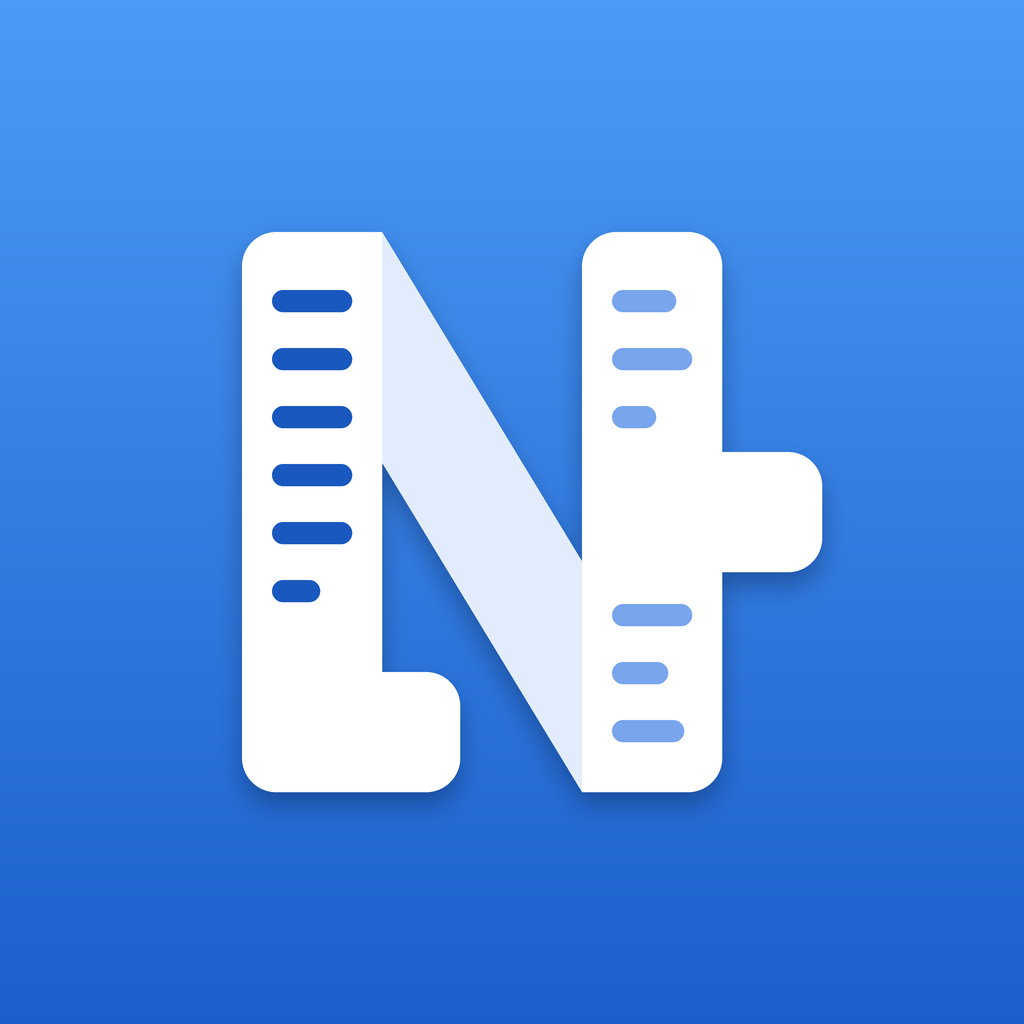
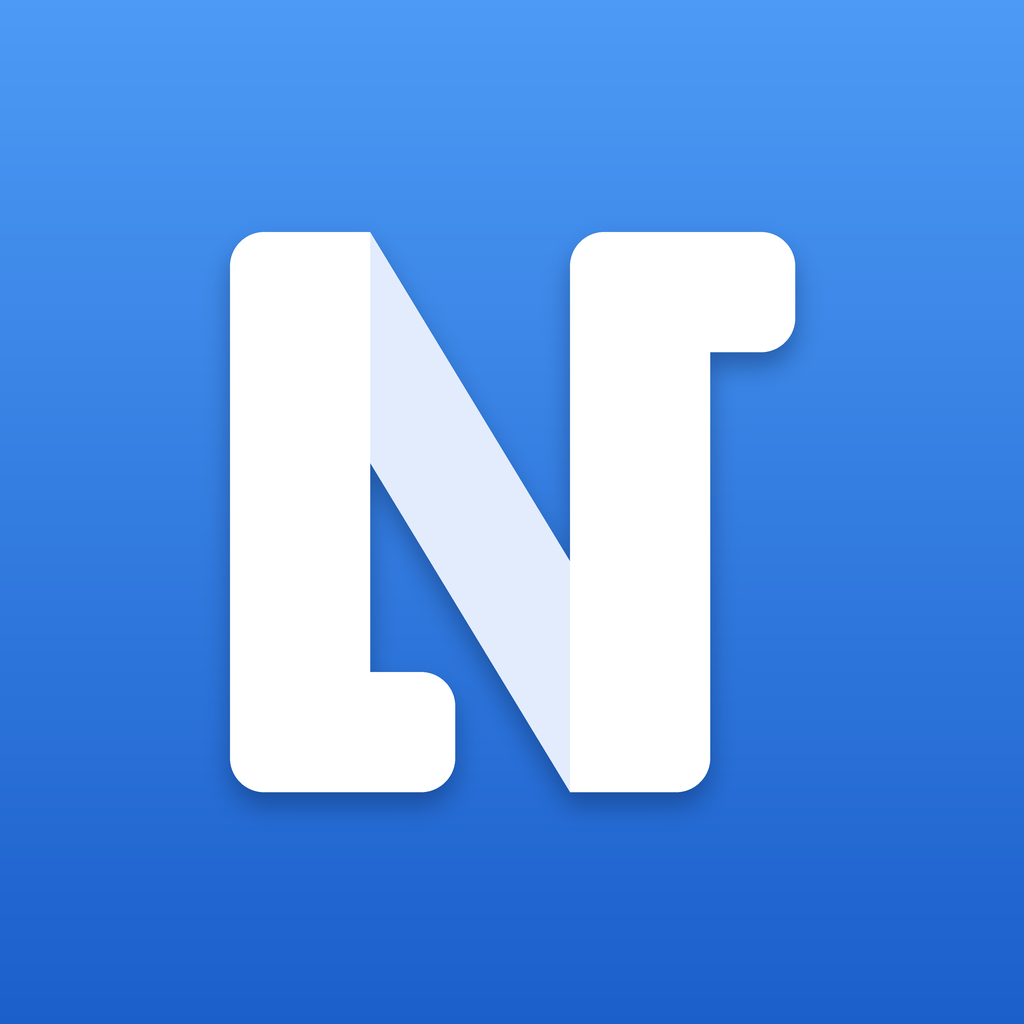
앱 아이콘 단순화 — 글줄을 빼고 ㅏ 가로획을 맨 위로, 받침과 길이를 같게
글줄이 작은 크기에서 잔무늬로 뭉개지고 큰 크기에서도 어수선했다. 흰 N+ㄴ·ㅏ 윤곽과 사선 띠만 남기고, ㅏ 가로획을 맨 위로 올려 ㄴ 받침과 대각으로 맞서게 했다(받침·가로획은 막대 밖으로 같은 길이). 전체를 가운데로 다시 맞췄다.

diff --git a/tools/make_icon.py b/tools/make_icon.py
@@ -8,10 +8,11 @@
 
     uv run python tools/make_icon.py
 
-디자인: 파란 라운드 사각형 위 흰 'N' — 두 세로 페이지(원문·번역)를 사선 띠가 잇는다. 두 다리는
-그대로 'ㄴ'과 'ㅏ'의 세로획이라 '나(란히)'로도 읽힌다. 왼쪽 페이지 글줄은 고르고 진하게(원문),
-오른쪽은 들쭉날쭉하고 밝게(번역). 글꼴 없이 도형만 쓰므로 어느 컴퓨터에서나 같은 결과가 나온다.
-16px에서는 글줄이 사라지고 N+ㅏ 윤곽만 남는다.
+디자인: 파란 라운드 사각형 위에 흰 세로 막대 둘(원문·번역 두 페이지)이 나란히 서고, 옅은 사선
+띠가 둘을 이어 'N'이 된다. 왼쪽 아래 받침과 오른쪽 위 가로획(같은 길이)을 더해 'ㄴ'·'ㅏ' —
+'나(란히)'로도 읽힌다. 받침과 가로획이 대각으로 맞서 사선과 균형을 이룬다. 글줄 같은 잔 요소는
+두지 않아 16px에서도 윤곽이 그대로 남는다. 글꼴 없이 도형만 쓰므로 어느 컴퓨터에서나 같은 결과가
+나온다.
 """
 
 from __future__ import annotations
@@ -28,20 +29,16 @@ ASSETS = Path(__file__).resolve().parents[1] / "src" / "narani" / "ui" / "assets
 
 TOP = (76, 154, 245)  # 배경 그라데이션 위 (#4C9AF5)
 BOTTOM = (27, 95, 203)  # 배경 그라데이션 아래 (#1B5FCB)
-PAPER = (255, 255, 255, 255)
-BAND = (226, 236, 252, 255)  # 두 페이지를 잇는 사선 띠 — 종이보다 살짝 어둡게
-INK = (25, 88, 190, 255)  # 원문 글줄
-INK_LIGHT = (120, 165, 235, 255)  # 번역 글줄
+PAPER = (255, 255, 255, 255)  # 두 페이지와 받침·가로획
+LINK = (226, 236, 252, 255)  # 잇는 사선 띠 — 종이보다 살짝 어둡게
 
-# 1024 격자 좌표. 'ㅏ' 곁가지가 오른쪽으로 뻗으므로 N 몸통을 가운데보다 조금 왼쪽에 둔다.
-LEFT = (242, 232, 382, 792)  # 왼쪽 페이지 = ㄴ의 세로획
-RIGHT = (582, 232, 722, 792)  # 오른쪽 페이지 = ㅏ의 세로획
-FOOT = (242, 672, 460, 792)  # ㄴ 받침 (사선 띠에 닿지 않게 짧게)
-BRANCH = (582, 452, 822, 572)  # ㅏ 곁가지
+# 1024 격자 좌표. 가로획이 오른쪽으로 뻗으므로 두 막대를 가운데보다 조금 왼쪽에 둔다.
+LEFT = (230, 232, 370, 792)  # 왼쪽 페이지 = ㄴ의 세로획
+RIGHT = (570, 232, 710, 792)  # 오른쪽 페이지 = ㅏ의 세로획
+ARM = 85  # 받침·가로획이 막대 밖으로 뻗는 길이 — 좌우 같게, 받침이 사선 띠에 닿지 않는 만큼
+FOOT = (LEFT[0], LEFT[3] - 120, LEFT[2] + ARM, LEFT[3])  # ㄴ 받침
+BRANCH = (RIGHT[0], RIGHT[1], RIGHT[2] + ARM, RIGHT[1] + 120)  # ㅏ 가로획 — 맨 위, 받침과 대각으로 맞선다
 RADIUS = 34
-LINE_H, LINE_PAD = 22, 30  # 글줄 굵기, 페이지 안쪽 여백
-LEFT_LINES = [(290, 1), (348, 1), (406, 1), (464, 1), (522, 1), (580, .6)]  # (y, 폭 비율)
-RIGHT_LINES = [(290, .8), (348, 1), (406, .55), (604, 1), (662, .7), (720, .9)]  # 곁가지 자리는 비운다
 
 
 def _s(box: tuple[float, ...]) -> tuple[int, ...]:
@@ -69,43 +66,34 @@ def _background(full_bleed: bool) -> Image.Image:
 def _masks() -> tuple[Image.Image, Image.Image]:
     """(흰 글자 모양, 사선 띠) 마스크."""
     size = (SIZE * SS, SIZE * SS)
-    glyph = Image.new("L", size, 0)
-    d = ImageDraw.Draw(glyph)
     r = RADIUS * SS
-    # 띠가 붙는 모서리(왼쪽 페이지 오른쪽 위, 오른쪽 페이지 왼쪽 아래)는 각지게 — 이음매 틈이 없도록
+    pages = Image.new("L", size, 0)
+    d = ImageDraw.Draw(pages)
+    # 사선이 붙는 모서리는 각지게 — 이음매에 틈이 없도록. corners = (왼위, 오위, 오아래, 왼아래)
     d.rounded_rectangle(_s(LEFT), radius=r, fill=255, corners=(True, False, True, True))
     d.rounded_rectangle(_s(RIGHT), radius=r, fill=255, corners=(True, True, True, False))
     d.rounded_rectangle(_s(FOOT), radius=r, fill=255)
     d.rounded_rectangle(_s(BRANCH), radius=r, fill=255)
 
-    band = Image.new("L", size, 0)
-    ImageDraw.Draw(band).polygon(
-        [(LEFT[0] * SS, LEFT[1] * SS), (LEFT[2] * SS, LEFT[1] * SS),
-         (RIGHT[2] * SS, RIGHT[3] * SS), (RIGHT[0] * SS, RIGHT[3] * SS)], fill=255)
-    clip = Image.new("L", size, 0)  # 띠 끝이 바깥 둥근 모서리 밖으로 삐져나오지 않게
+    link = Image.new("L", size, 0)
+    ImageDraw.Draw(link).polygon([(LEFT[0] * SS, LEFT[1] * SS), (LEFT[2] * SS, LEFT[1] * SS),
+               (RIGHT[2] * SS, RIGHT[3] * SS), (RIGHT[0] * SS, RIGHT[3] * SS)], fill=255)
+    clip = Image.new("L", size, 0)  # 사선 끝이 바깥 둥근 모서리 밖으로 삐져나오지 않게
     ImageDraw.Draw(clip).rounded_rectangle(_s((LEFT[0], LEFT[1], RIGHT[2], RIGHT[3])), radius=r, fill=255)
-    return glyph, ImageChops.multiply(band, clip)
+    return pages, ImageChops.multiply(link, clip)
 
 
 def build(full_bleed: bool = False) -> Image.Image:
     img = _background(full_bleed)
-    glyph, band = _masks()
+    pages, link = _masks()
 
     shadow = Image.new("L", img.size, 0)
-    shadow.paste(ImageChops.lighter(glyph, band).point(lambda v: v * 110 // 255), (0, 14 * SS))
+    shadow.paste(ImageChops.lighter(pages, link).point(lambda v: v * 110 // 255), (0, 14 * SS))
     layer = Image.new("RGBA", img.size, (10, 40, 90, 0))
     layer.putalpha(shadow.filter(ImageFilter.GaussianBlur(12 * SS)))
     img.alpha_composite(layer)
-    img.paste(Image.new("RGBA", img.size, BAND), (0, 0), band)
-    img.paste(Image.new("RGBA", img.size, PAPER), (0, 0), glyph)
-
-    draw = ImageDraw.Draw(img)
-    for page, lines, ink in ((LEFT, LEFT_LINES, INK), (RIGHT, RIGHT_LINES, INK_LIGHT)):
-        x0, x1 = page[0] + LINE_PAD, page[2] - LINE_PAD
-        for y, frac in lines:
-            draw.rounded_rectangle(_s((x0, y, x0 + (x1 - x0) * frac, y + LINE_H)),
-                                   radius=LINE_H * SS // 2, fill=ink)
-
+    img.paste(Image.new("RGBA", img.size, LINK), (0, 0), link)
+    img.paste(Image.new("RGBA", img.size, PAPER), (0, 0), pages)
     return img.resize((SIZE, SIZE), Image.LANCZOS)
 
 
